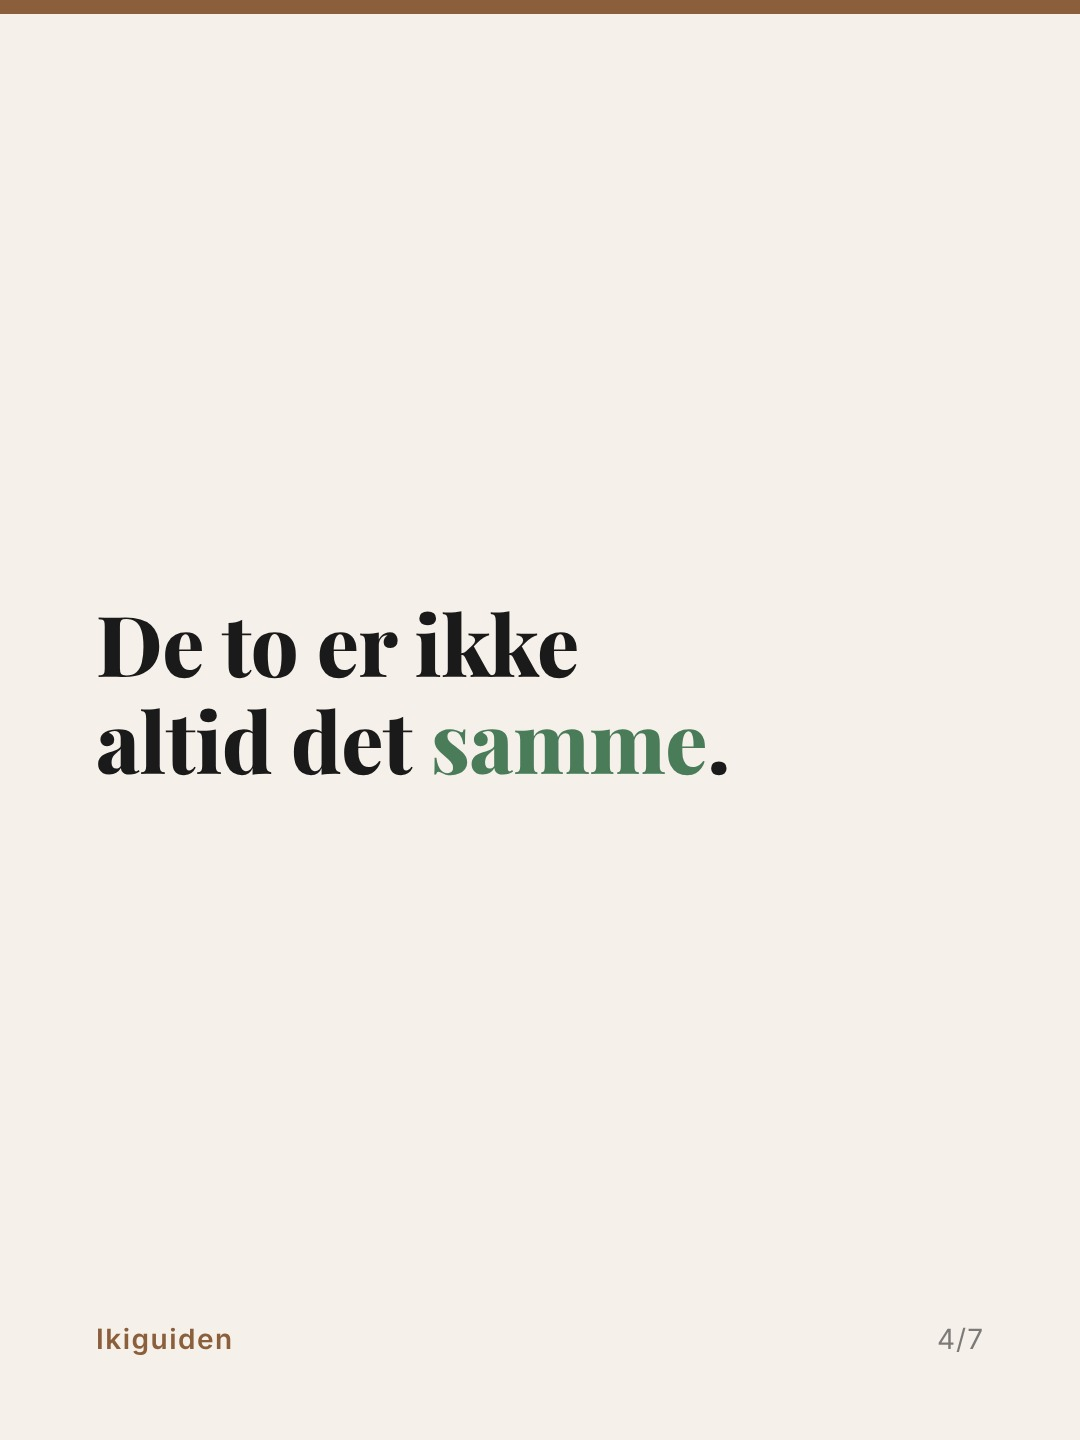
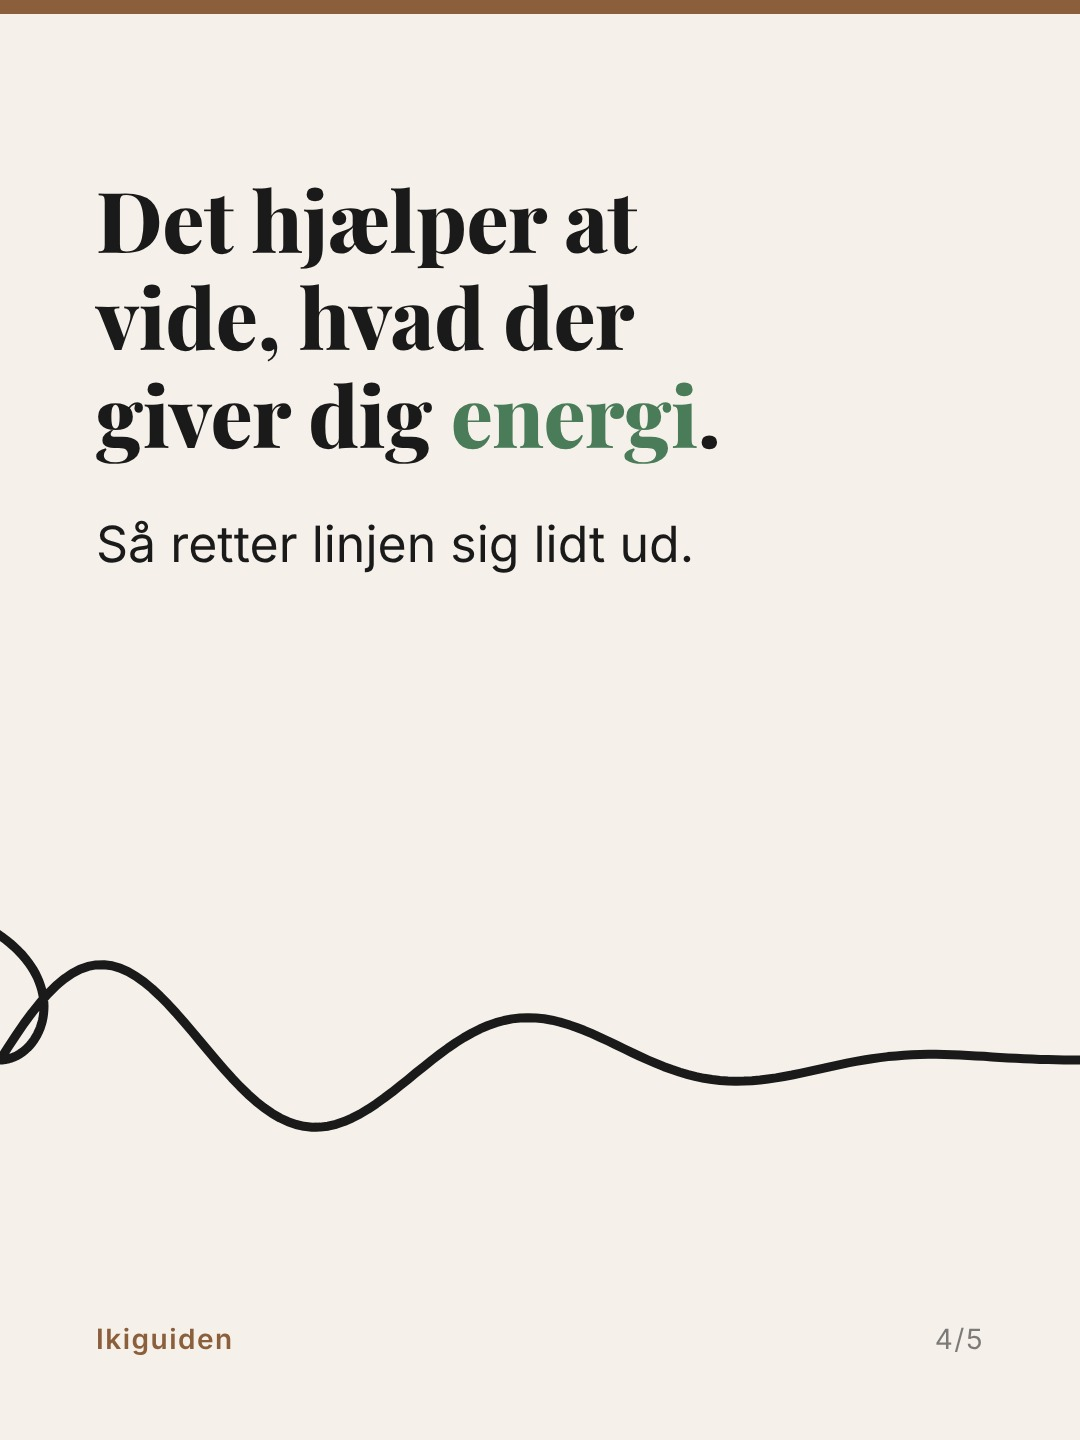
Ny karrusel: sammenhængende linje hen over alle slides
Claude-Session: https://claude.ai/code/session_01GtrsqwRPCUpWQy42qmb9FZ

diff --git a/pipeline/render.py b/pipeline/render.py
@@ -168,7 +168,7 @@ def music_expr(durations):
 
 
 def item_hash(item):
-    payload = {k: item.get(k) for k in ("type", "slides", "cards")}
+    payload = {k: item.get(k) for k in ("type", "format", "slides", "cards")}
     return hashlib.sha1(json.dumps(payload, sort_keys=True, ensure_ascii=False).encode()).hexdigest()
 
 
@@ -182,6 +182,87 @@ def render_item(page, item, force=False):
     for f in out.iterdir():
         if f.is_file():
             f.unlink()
-    (render_carousel if item["type"] == "carousel" else render_reel)(page, item, out)
+    if item["type"] == "carousel" and item.get("format") == "linje":
+        render_panorama(page, item, out)
+    else:
+        (render_carousel if item["type"] == "carousel" else render_reel)(page, item, out)
     stamp.write_text(h)
     return True
+
+
+# ---------------- Sammenhængende "følg linjen"-karrusel ----------------
+# Én bred tegning (1080 x antal slides) med en linje, der løber hen over alle slides.
+# Linjen er lige i reklamen, filtret i virkeligheden og retter sig ud mod testen.
+import math  # noqa: E402
+
+LINE_Y = 1060
+
+
+def _segment(style, x0, w=1080):
+    pts = []
+    if style == "lige":
+        pts = [(x0 + x, LINE_Y) for x in range(0, w + 1, 20)]
+    elif style in ("løkker", "kaos"):
+        k = 2 if style == "løkker" else 3
+        a = w / (2 * math.pi * k)
+        b = 150 if style == "løkker" else 120
+        n = 400
+        for i in range(n + 1):
+            t = 2 * math.pi * k * i / n
+            drift = 0 if style == "løkker" else 70 * math.sin(t / k * 1.5)
+            pts.append((x0 + a * t - b * math.sin(t), LINE_Y + b * (math.cos(t) - 1) + drift * math.sin(t / 2) ** 2))
+    elif style == "bølge":
+        for x in range(0, w + 1, 8):
+            amp = 110 * (1 - x / w) ** 1.4
+            pts.append((x0 + x, LINE_Y - amp * math.sin(x / w * 2 * math.pi * 2.5)))
+    elif style == "mål":
+        pts = [(x0 + x, LINE_Y) for x in range(0, w - 180 + 1, 20)]
+    return pts
+
+
+def panorama_html(item, fonts):
+    slides = item["slides"]
+    n = len(slides)
+    pts = []
+    for i, s in enumerate(slides):
+        seg = _segment(s.get("linje", "lige"), i * 1080)
+        if i == 0:
+            seg = [p for p in seg if p[0] >= 150]
+        pts += seg
+    d = "M" + " L".join(f"{x:.1f},{y:.1f}" for x, y in pts)
+    ex, ey = pts[-1]
+    blocks = []
+    for i, s in enumerate(slides):
+        kind = s.get("kind", "text")
+        hs, ss = {"hook": (104, 50), "cta": (92, 50)}.get(kind, (84, 50))
+        heads = "".join(f'<div class="h" style="font-size:{hs}px">{fmt(t)}</div>' for t in s["h"])
+        subs = "".join(f'<div class="s" style="font-size:{ss}px">{fmt(t)}</div>' for t in s.get("sub", []))
+        cls = " cta" if kind == "cta" else ""
+        blocks.append(f'<div class="blk{cls}" style="left:{i*1080+96}px">{heads}{subs}</div>'
+                      f'<div class="foot" style="left:{i*1080+96}px"><span>Ikiguiden</span><span class="n">{i+1}/{n}</span></div>')
+    return f"""<!doctype html><html lang="da"><head><meta charset="utf-8"><style>{fonts}{BASE_CSS}
+body{{width:{n*1080}px;height:1440px;position:relative;overflow:hidden;background:{BG}}}
+.bar{{position:absolute;top:0;left:0;width:{n*1080}px;height:14px;background:{BROWN}}}
+.blk{{position:absolute;top:170px;width:888px;height:600px;display:flex;flex-direction:column;justify-content:flex-start;color:{INK};font-family:'Inter',sans-serif}}
+.blk.cta .h{{color:{BROWN}}}
+.foot{{position:absolute;bottom:84px;width:888px;display:flex;justify-content:space-between;font-size:28px;color:{BROWN};font-weight:600;letter-spacing:1.5px;font-family:'Inter',sans-serif}}
+.foot .n{{font-weight:400;color:{INK};opacity:.55}}
+.dig{{position:absolute;left:96px;top:{LINE_Y+40}px;font-family:'Inter';font-weight:600;font-size:30px;color:{GREEN};letter-spacing:1px}}
+</style></head><body><div class="bar"></div>
+<svg width="{n*1080}" height="1440" style="position:absolute;left:0;top:0">
+<path d="{d}" fill="none" stroke="{INK}" stroke-width="9" stroke-linecap="round" stroke-linejoin="round"/>
+<circle cx="150" cy="{LINE_Y}" r="26" fill="{GREEN}"/>
+<path d="M{ex-10},{ey-44} L{ex+46},{ey} L{ex-10},{ey+44} Z" fill="{GREEN}"/>
+</svg><div class="dig">DIG</div>{''.join(blocks)}</body></html>"""
+
+
+def render_panorama(page, item, out):
+    from PIL import Image
+    n = len(item["slides"])
+    page.set_viewport_size({"width": 1080 * n, "height": 1440})
+    with tempfile.TemporaryDirectory() as tmp:
+        full = Path(tmp) / "pano.png"
+        shot(page, panorama_html(item, font_css()), tmp, "pano", full, kind="png")
+        im = Image.open(full).convert("RGB")
+        for i in range(n):
+            im.crop((i * 1080, 0, (i + 1) * 1080, 1440)).save(out / f"slide-{i+1:02d}.jpg", quality=92)

diff --git a/brand/WEEKLY_PROMPT.md b/brand/WEEKLY_PROMPT.md
@@ -56,3 +56,7 @@ Commit `queue/` og `media/` på main med beskeden `Indhold uge <nr>`, og push. P
 ## 6. Afslut kort
 
 Højst 6 linjer på dansk: hvilke emner og formater du valgte, hvad der ikke blev lavet og hvorfor, og om noget skal afgøres af et menneske. Ingen opremsning af trin.
+
+## Tillæg: sammenhængende "følg linjen"-karrusel
+
+Mindst 2 af ugens karruseller skal have `"format": "linje"`. Her løber én linje ubrudt hen over alle slides, så man skal swipe for at følge den. Hver slide har feltet `linje` med en af værdierne `lige`, `løkker`, `kaos`, `bølge` og `mål`. Første slide er `lige`, sidste er `mål` (pil mod CTA), og imellem bruges linjen som billede på pointen, fx lige vs. filtret, eller tvivl der retter sig ud. Teksten skal være kort, fordi linjen fylder nederste halvdel: højst 2 korte linjer overskrift plus én kort undertekst pr. slide, 5 til 7 slides. Se `queue/2026-W45/13-tirsdag-1900-karrusel.json` som eksempel. Find gerne på nye historier, linjen kan fortælle, i stedet for at gentage eksemplet.
